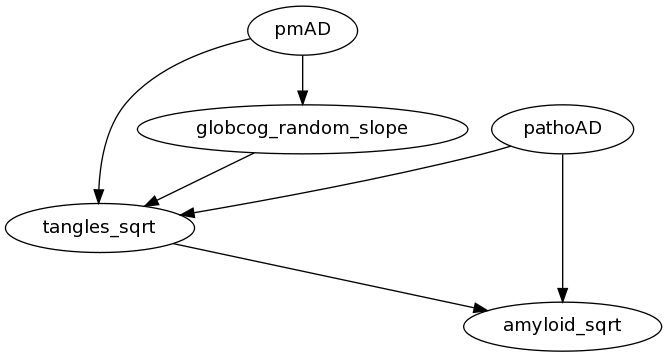
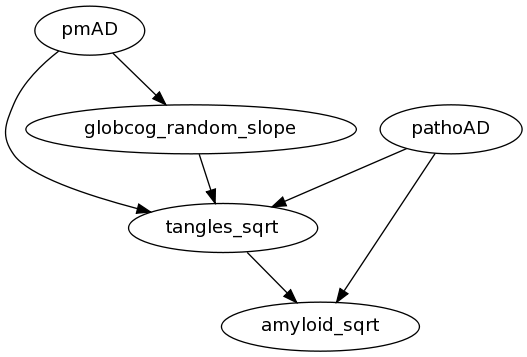
Dratings of CGBayesNets and deal module networks

diff --git a/analysis/cgbayesnets-genes.m b/analysis/cgbayesnets-genes.m
@@ -1,0 +1,25 @@
+% set up CGBayesNets
+cgdir = '/home/unix/rmcclosk/packages/cgbayesnets_7_14_14';
+path(path, cgdir);
+curdir = cd(cgdir);
+bnpathscript;
+tic;
+cd(curdir);
+
+% common parameter values:
+%       priorPrecision.nu; % prior sample size for prior variance estimate
+%       priorPrecision.sigma2; % prior variance estimate
+%       priorPrecision.alpha; % prior sample size for discrete nodes
+%       priorPrecision.maxParents; % hard-limit on the number of parents
+priorPrecision.nu = 1;
+priorPrecision.sigma2 = 1;
+priorPrecision.alpha = 10; 
+priorPrecision.maxParents = 3;
+
+[data, cols] = RCSVLoad('modules-genes.tsv', true);
+FullBNet = FullBNLearn(data, cols, 'pmad', 0, 'pmad', priorPrecision);
+GVOutputBayesNet(FullBNet, 'cgbayesnets-genes.gv');
+
+% gives the same result
+%FullBNet = FullBNLearn(data, cols, 'pathoAD', 0, 'pathoAD', priorPrecision);
+%GVOutputBayesNet(FullBNet, 'pathoAD.gv');

diff --git a/analysis/GVOutputBayesNet.m b/analysis/GVOutputBayesNet.m
@@ -20,8 +20,9 @@ end
 for i = 1:length(BN.adjmat)
     for j = 1:length(BN.adjmat)
         if (BN.adjmat(i,j))
-            fprintf(fid,'\tedge [weight=%f] %s -> %s;\n', ...
-                    full(BN.weightMatrix(i,j)), BN.cols{i}, BN.cols{j});
+            %fprintf(fid,'\tedge [weight=%f] %s -> %s;\n', ...
+            %        full(BN.weightMatrix(i,j)), BN.cols{i}, BN.cols{j});
+            fprintf(fid,'\t%s -> %s;\n', BN.cols{i}, BN.cols{j});
         end
     end
 end

diff --git a/analysis/net2gv.py b/analysis/net2gv.py
@@ -1,0 +1,16 @@
+#!/usr/bin/env python3
+
+import sys
+import re
+
+print("digraph g {")
+for line in sys.stdin:
+    if "continuous node" in line or "discrete node" in line:
+        print("\t{};".format(line.split()[2]))
+    elif "potential" in line:
+        line = re.sub("\W", " ", line).split()
+        target = line[1]
+        for source in line[2:]:
+            if source == ")": break
+            print("\t{} -> {};".format(source, target))
+print("}")
